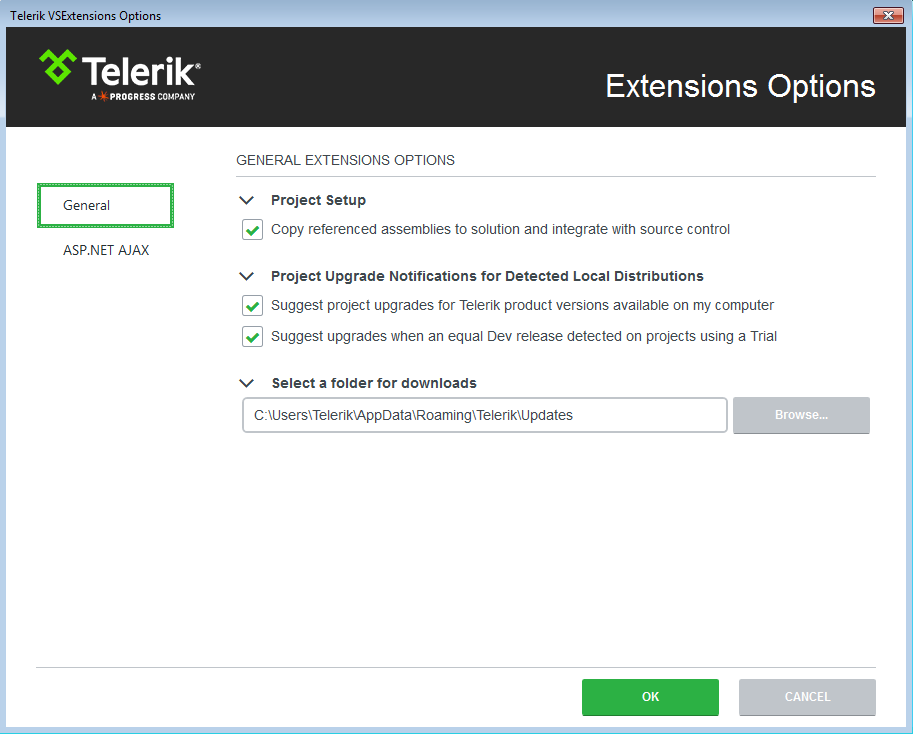
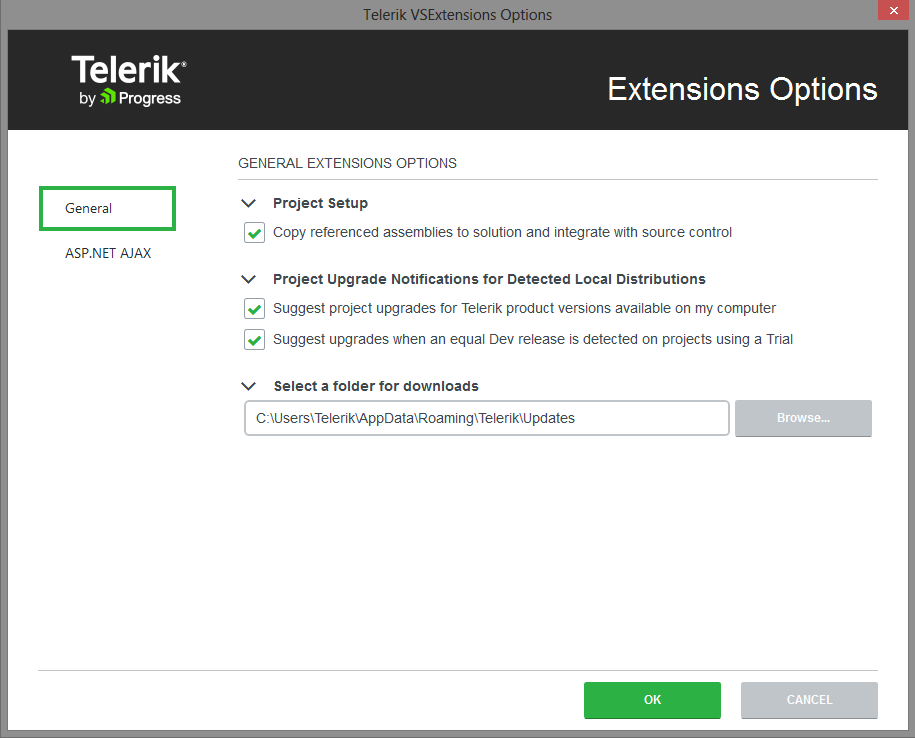
Updated images and text related to VS Extension Options

diff --git a/general-information/integration-with-visual-studio/visual-studio-extensions/visual-studio-extensions-options.md b/general-information/integration-with-visual-studio/visual-studio-extensions/visual-studio-extensions-options.md
@@ -34,13 +34,7 @@ The settings under the General category affect all of the installed **Telerik Vi
 
 **Suggest project upgrades for Telerik product version available on my computer** – When enabled, you will be prompted to upgrade upon opening a project, which is not using the latest version of Telerik UI for ASP.NET AJAX installed on your system
 
-**Suggest upgrades when an equal Dev release detected on projects using a Trial** – When enabled, you will be prompted to upgrade if a licensed version of Telerik UI for ASP.NET AJAX is available on your system, but the current project uses a trial version
-
-### Other Notifications
-
-**Notify me when a Telerik subscription I have is about to expire** – When enabled, you will receive reminders if any of your subscriptions expire within the next month.
-
->note You can benefit subscription reminders only if you have saved your credentials in the [Latest Version Acquirer tool]({%slug introduction/radcontrols-for-asp.net-ajax-fundamentals/integration-with-visual-studio/visual-studio-extensions/automatic-latest-version-retrieval%}).
+**Suggest upgrades when an equal Dev release is detected on projects using a Trial** – When enabled, you will be prompted to upgrade if a licensed version of Telerik UI for ASP.NET AJAX is available on your system, but the current project uses a trial version
 
 ### Select a folder for downloads
 
